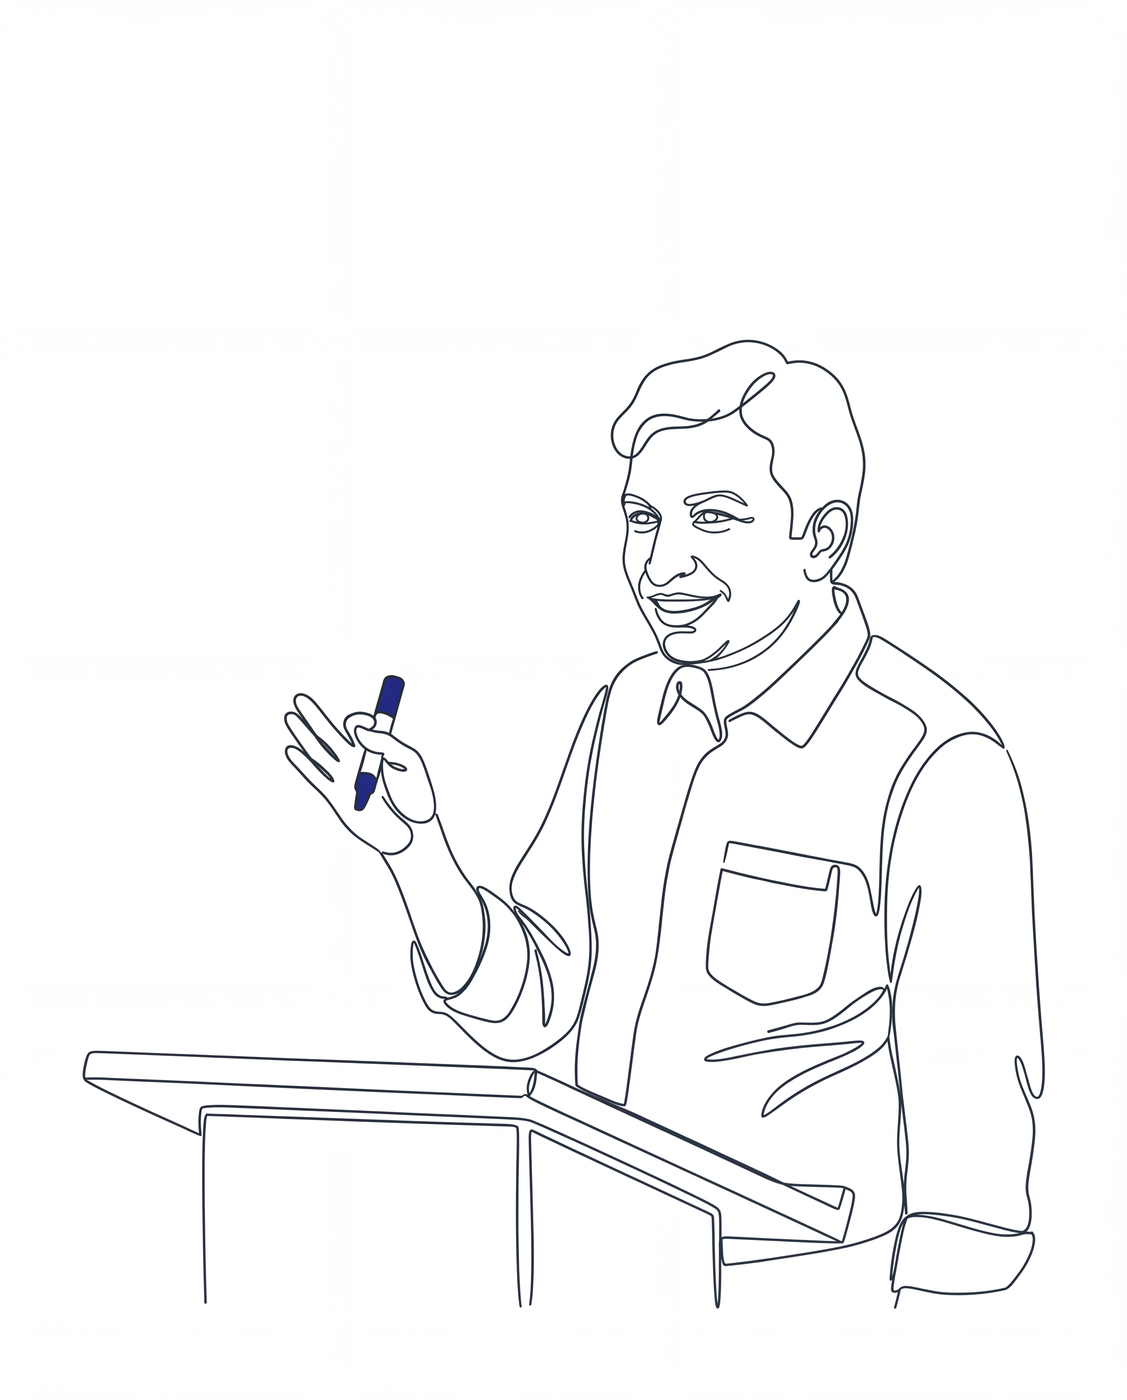
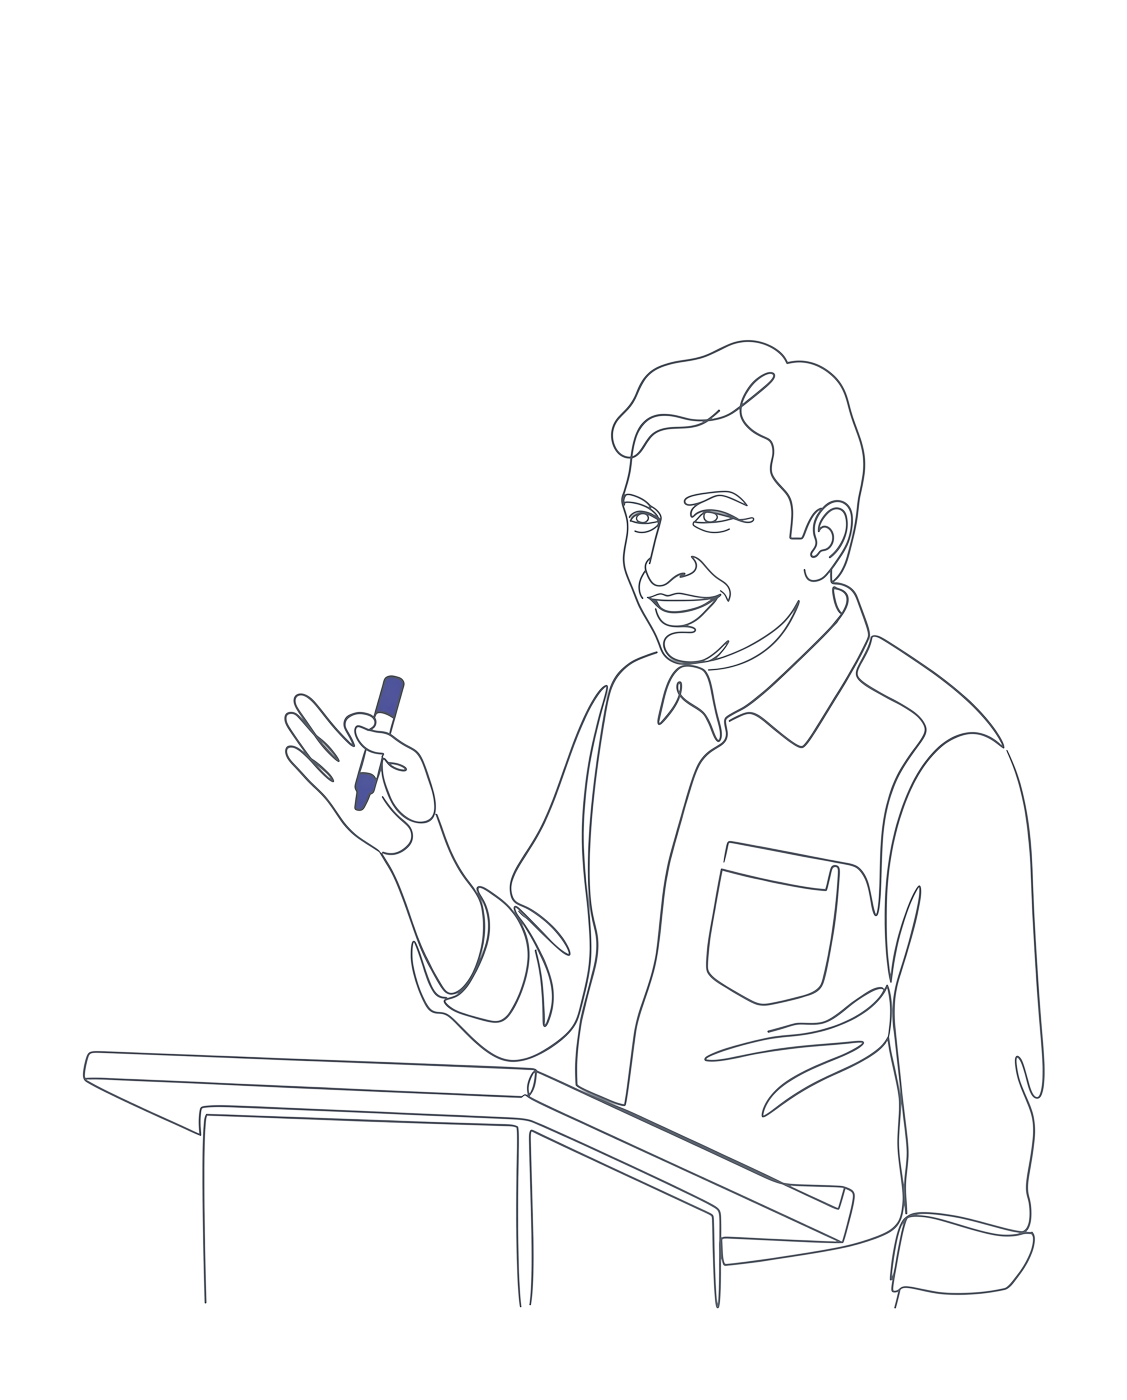
Hero art transparent (strip baked navy) + dark-mode invert filter; flip card theme-aware; restore candlestick backdrop, remove spark line/dot (the crack); sign-in surfaces popup-blocked / provider-off / unauthorized-domain clearly

diff --git a/assets/css/main.css b/assets/css/main.css
@@ -1460,10 +1460,12 @@ dfn.lookup:hover { background: var(--highlight); }
 
 /* the collage — generated brand art over the kinetic marquee */
 .mast-art { display: block; margin: 1.5rem 0 0; max-width: 560px; }
-.mast-art-img {
-  display: block; width: 100%; border-radius: 18px;
-  border: 1px solid var(--rule); box-shadow: var(--shadow-md);
-}
+.mast-art-img { display: block; width: 100%; }
+/* The hero art is transparent line-work: it reads as ink on the light
+   page, and in dark mode we simply invert it (hue-rotate keeps the brand
+   colours roughly true) so the lines go light on the dark ground. */
+[data-theme="dark"] .mast-art-img,
+[data-theme="dark"] .pf-art { filter: invert(1) hue-rotate(180deg); }
 .mast-art-grid { /* legacy coded-collage layout, kept for fallback */
   display: grid; grid-template-columns: 1fr 1.6fr .9fr; gap: .7rem;
   align-items: stretch;
@@ -1508,12 +1510,10 @@ dfn.lookup:hover { background: var(--highlight); }
 }
 .prof-stage.flipped .prof-flip { transform: rotateY(180deg); }
 .pf-face {
-  /* the art is ink-on-white — pin the light palette so the card stays a
-     clean ivory sheet in BOTH themes, like the belt cards */
-  --ink:#24313A; --ink-soft:#5D6F7A; --surface:#FFFFFF; --surface-2:#F4F8FA;
-  --rule:#D8E1E7; --accent:#192890; --accent-press:#245BFF; --gold-ink:#8A6A12;
+  /* theme-aware: light sheet in light mode, dark sheet in dark mode — the
+     transparent art sits on it and inverts with the theme (see filter above) */
   position: absolute; inset: 0; backface-visibility: hidden; -webkit-backface-visibility: hidden;
-  background: #FFFFFF; border: 1px solid var(--rule); border-radius: 22px;
+  background: var(--surface); border: 1px solid var(--rule); border-radius: 22px;
   box-shadow: var(--shadow-md); padding: 1.2rem; overflow: hidden;
   color: var(--ink);
 }
@@ -1561,11 +1561,7 @@ dfn.lookup:hover { background: var(--highlight); }
   .flipped .hall-karma { animation: karmaPop .7s cubic-bezier(.2,1.4,.4,1) .5s both; }
   @keyframes karmaPop { from { transform: scale(0); } to { transform: scale(1); } }
 }
-/* The back face carries the dark lecture-hall art — pull the caption to
-   light and lay a soft scrim under it so it reads over the navy. */
-.pf-back { color: #EAF0F5; }
-.pf-back::after { content: ""; position: absolute; inset: auto 0 0 0; height: 52%; background: linear-gradient(transparent, rgba(10,14,42,.82)); z-index: 0; pointer-events: none; }
-.hall-caption { position: relative; z-index: 1; font: 400 .88rem/1.5 var(--body); color: #C4D0DA; margin: 0; max-width: 32ch; }
+.hall-caption { position: relative; z-index: 1; font: 400 .88rem/1.5 var(--body); color: var(--ink-soft); margin: 0; max-width: 32ch; }
 .mast-fact {
   display: flex; flex-direction: column; gap: .3rem; margin: 1.1rem 0 0;
   font: 600 .92rem var(--sans); color: var(--ink);
@@ -1621,7 +1617,11 @@ dfn.lookup:hover { background: var(--highlight); }
   position: relative;
 }
 /* ambient stilled candlestick chart, low opacity — decorative fill only */
-/* (candlestick backdrop removed — the single scroll line below is the mark) */
+/* Candlestick backdrop — a stilled chart behind the cards, very low
+   opacity, sharp bodies (no rounded dojis). Pure decoration. */
+.stage-candles { position: absolute; inset: 0; width: 100%; height: 100%; opacity: .12; pointer-events: none; z-index: 0; }
+.stage-candles .sc-candle line { stroke: #C7D2DA; stroke-width: 1.5; }
+.stage-candles .sc-candle rect { fill: var(--isb-green); }
 .stack-pin { position: relative; z-index: 1; min-height: 100svh; padding: 4.5rem 0 4rem; display: flex; flex-direction: column; }
 .stage-head { display: grid; grid-template-columns: 190px 1fr; gap: 2.5rem; align-items: start; }
 .stage-label { font: 600 .78rem var(--mono); letter-spacing: .12em; text-transform: uppercase; color: var(--isb-green); margin: .35rem 0 0; }
@@ -1661,11 +1661,6 @@ dfn.lookup:hover { background: var(--highlight); }
    coordinate space, drawn just above the wicks. Reveals left-to-right
    (stroke dashoffset, driven by home-stack.js) as you scroll the belt,
    a lit dot riding the tip. Invisible without JS (dashoffset 1). */
-.stage-spark { position: absolute; inset: 0; width: 100%; height: 100%; pointer-events: none; z-index: 0; overflow: visible; }
-.ssp-grid line { stroke: #F4F8FA; stroke-width: 1; vector-effect: non-scaling-stroke; opacity: .05; }
-.ssp-line { fill: none; stroke: var(--isb-green); stroke-width: 1.75; vector-effect: non-scaling-stroke; stroke-linecap: round; stroke-linejoin: round; opacity: .55; stroke-dasharray: 1; stroke-dashoffset: 1; }
-.ssp-dot { fill: var(--isb-green); r: 3; opacity: 0; }
-.stack-ready .ssp-dot { opacity: 1; }
 
 /* Desktop, once home-stack.js takes over */
 .stack-ready .stack-pin { overflow: hidden; }

diff --git a/_layouts/home.html b/_layouts/home.html
@@ -62,15 +62,37 @@ layout: default
      in and joins a centred pile, then the pile rides the scroll down and
      dissolves into the white CTA. home-stack.js drives it. ── -->
 <section class="stack-stage" id="walkthrough">
-  <!-- the scroll line: a single clean trend line that draws left-to-right
-       as you scroll the belt (stroke-dashoffset, home-stack.js), a lit dot
-       riding the tip. Three hairline gridlines give it a chart's structure
-       without the old candlesticks. -->
-  <svg class="stage-spark" viewBox="0 0 1000 300" preserveAspectRatio="none" aria-hidden="true">
-    <g class="ssp-grid"><line x1="0" y1="90" x2="1000" y2="90"/><line x1="0" y1="150" x2="1000" y2="150"/><line x1="0" y1="210" x2="1000" y2="210"/></g>
-    <path id="stackSparkPath" class="ssp-line" pathLength="1"
-      d="M2 196 L30 188 L67.6 195 L105.2 204 L142.8 221 L180.4 219 L218 222 L255.6 210 L293.2 212 L330.8 187 L368.4 181 L406 155 L443.6 149 L481.2 142 L518.8 127 L556.4 111 L594 104 L631.6 106 L669.2 114 L706.8 117 L744.4 119 L782 117 L819.6 133 L857.2 133 L894.8 147 L932.4 157 L970 151 L998 118"/>
-    <circle id="stackSparkDot" class="ssp-dot" r="4" cx="2" cy="196"></circle>
+  <!-- ambient background: a stilled candlestick chart, very low opacity —
+       pure decoration behind the cards, sharp bodies (no rounded dojis). -->
+  <svg class="stage-candles" viewBox="0 0 1000 300" preserveAspectRatio="none" aria-hidden="true">
+    <g class="sc-candle">
+      <line x1="30.0" y1="220.8" x2="30.0" y2="246.6"/><rect x="23.5" y="224.7" width="13" height="11.9"/>
+      <line x1="67.6" y1="218.7" x2="67.6" y2="246.3"/><rect x="61.1" y="222.5" width="13" height="14.2"/>
+      <line x1="105.2" y1="218.1" x2="105.2" y2="239.2"/><rect x="98.7" y="222.3" width="13" height="8.4"/>
+      <line x1="142.8" y1="220.2" x2="142.8" y2="237.8"/><rect x="136.3" y="224.8" width="13" height="7.1"/>
+      <line x1="180.4" y1="212.5" x2="180.4" y2="251.1"/><rect x="173.9" y="220.7" width="13" height="14.7"/>
+      <line x1="218.0" y1="205.3" x2="218.0" y2="235.3"/><rect x="211.5" y="219.5" width="13" height="9.0"/>
+      <line x1="255.6" y1="201.7" x2="255.6" y2="231.0"/><rect x="249.1" y="215.3" width="13" height="10.4"/>
+      <line x1="293.2" y1="203.6" x2="293.2" y2="232.8"/><rect x="286.7" y="214.9" width="13" height="10.1"/>
+      <line x1="330.8" y1="209.2" x2="330.8" y2="235.0"/><rect x="324.3" y="214.9" width="13" height="8.3"/>
+      <line x1="368.4" y1="206.8" x2="368.4" y2="231.5"/><rect x="361.9" y="213.9" width="13" height="7"/>
+      <line x1="406.0" y1="199.0" x2="406.0" y2="227.1"/><rect x="399.5" y="211.1" width="13" height="9.8"/>
+      <line x1="443.6" y1="196.6" x2="443.6" y2="238.6"/><rect x="437.1" y="206.4" width="13" height="17.8"/>
+      <line x1="481.2" y1="205.8" x2="481.2" y2="229.3"/><rect x="474.7" y="210.3" width="13" height="10.6"/>
+      <line x1="518.8" y1="198.6" x2="518.8" y2="238.0"/><rect x="512.3" y="203.6" width="13" height="25.0"/>
+      <line x1="556.4" y1="195.7" x2="556.4" y2="232.4"/><rect x="549.9" y="206.1" width="13" height="11.9"/>
+      <line x1="594.0" y1="189.5" x2="594.0" y2="228.6"/><rect x="587.5" y="201.5" width="13" height="16.4"/>
+      <line x1="631.6" y1="184.3" x2="631.6" y2="227.7"/><rect x="625.1" y="199.6" width="13" height="18.9"/>
+      <line x1="669.2" y1="200.4" x2="669.2" y2="225.9"/><rect x="662.7" y="204.2" width="13" height="9.6"/>
+      <line x1="706.8" y1="192.5" x2="706.8" y2="226.2"/><rect x="700.3" y="199.2" width="13" height="19.0"/>
+      <line x1="744.4" y1="201.9" x2="744.4" y2="221.2"/><rect x="737.9" y="205.2" width="13" height="7"/>
+      <line x1="782.0" y1="188.5" x2="782.0" y2="214.0"/><rect x="775.5" y="201.5" width="13" height="7.8"/>
+      <line x1="819.6" y1="190.7" x2="819.6" y2="220.7"/><rect x="813.1" y="198.8" width="13" height="7.6"/>
+      <line x1="857.2" y1="177.1" x2="857.2" y2="219.7"/><rect x="850.7" y="191.6" width="13" height="14.4"/>
+      <line x1="894.8" y1="189.0" x2="894.8" y2="212.8"/><rect x="888.3" y="195.6" width="13" height="8.8"/>
+      <line x1="932.4" y1="183.4" x2="932.4" y2="212.8"/><rect x="925.9" y="188.4" width="13" height="19.1"/>
+      <line x1="970.0" y1="180.2" x2="970.0" y2="213.2"/><rect x="963.5" y="186.2" width="13" height="17.7"/>
+    </g>
   </svg>
   <div class="stack-pin">
     <div class="container">

diff --git a/assets/js/essay.js b/assets/js/essay.js
@@ -466,8 +466,12 @@
             m[1].signOut(auth); alert("This room is ISB-only — please sign in with your @isb.edu email.");
           }
         }).catch(function (err) {
-          console.error("[gze] sign-in failed:", err && err.code, err);
-          if (err && err.code === "auth/unauthorized-domain") alert("Sign-in isn't enabled for this domain yet. In Firebase → Authentication → Settings → Authorized domains, add genz-economics.com.");
+          var code = err && err.code || "";
+          console.error("[gze] sign-in failed:", code, err);
+          if (code === "auth/unauthorized-domain") alert("Sign-in isn't enabled for this domain yet. In Firebase → Authentication → Settings → Authorized domains, add genz-economics.com.");
+          else if (code === "auth/operation-not-allowed") alert("Google sign-in isn't switched on yet. In Firebase → Authentication → Sign-in method, enable Google.");
+          else if (code === "auth/popup-blocked" || code === "auth/cancelled-popup-request") alert("Your browser blocked the sign-in popup — allow popups for genz-economics.com and try again.");
+          else if (code) alert("Sign-in failed (" + code + ").");
         });
       });
     }).catch(function (err) { console.error("[gze] auth module failed to load:", err); });

diff --git a/assets/js/site.js b/assets/js/site.js
@@ -367,10 +367,12 @@
             alert("This room is ISB-only — please sign in with your @isb.edu email.");
           }
         }).catch(function (err) {
-          console.error("[gze] sign-in failed:", err && err.code, err);
-          if (err && err.code === "auth/unauthorized-domain") {
-            alert("Sign-in isn't enabled for this domain yet. In Firebase → Authentication → Settings → Authorized domains, add genz-economics.com.");
-          }
+          var code = err && err.code || "";
+          console.error("[gze] sign-in failed:", code, err);
+          if (code === "auth/unauthorized-domain") alert("Sign-in isn't enabled for this domain yet. In Firebase → Authentication → Settings → Authorized domains, add genz-economics.com.");
+          else if (code === "auth/operation-not-allowed") alert("Google sign-in isn't switched on yet. In Firebase → Authentication → Sign-in method, enable Google.");
+          else if (code === "auth/popup-blocked" || code === "auth/cancelled-popup-request") alert("Your browser blocked the sign-in popup — allow popups for genz-economics.com and try again.");
+          else if (code) alert("Sign-in failed (" + code + ").");
         });
       });
     });

diff --git a/assets/js/home-stack.js b/assets/js/home-stack.js
@@ -27,9 +27,6 @@
     var belt = stage.querySelector(".stack-belt");
     var head = stage.querySelector(".stage-head");
     var cards = gsap.utils.toArray(stage.querySelectorAll(".stack-card"));
-    var sparkPath = document.getElementById("stackSparkPath");
-    var sparkDot = document.getElementById("stackSparkDot");
-    var sparkLen = sparkPath ? sparkPath.getTotalLength() : 0;
     var n = cards.length;
     if (!n) return;
 
@@ -74,14 +71,6 @@
           delay: 0.06,
           ease: "power1.inOut"
         },
-        onUpdate: function (self) {
-          if (sparkPath) sparkPath.style.strokeDashoffset = (1 - self.progress).toFixed(4);
-          if (sparkDot && sparkPath && sparkLen) {
-            var pt = sparkPath.getPointAtLength(self.progress * sparkLen);
-            sparkDot.setAttribute("cx", pt.x);
-            sparkDot.setAttribute("cy", pt.y);
-          }
-        }
       }
     });
 
